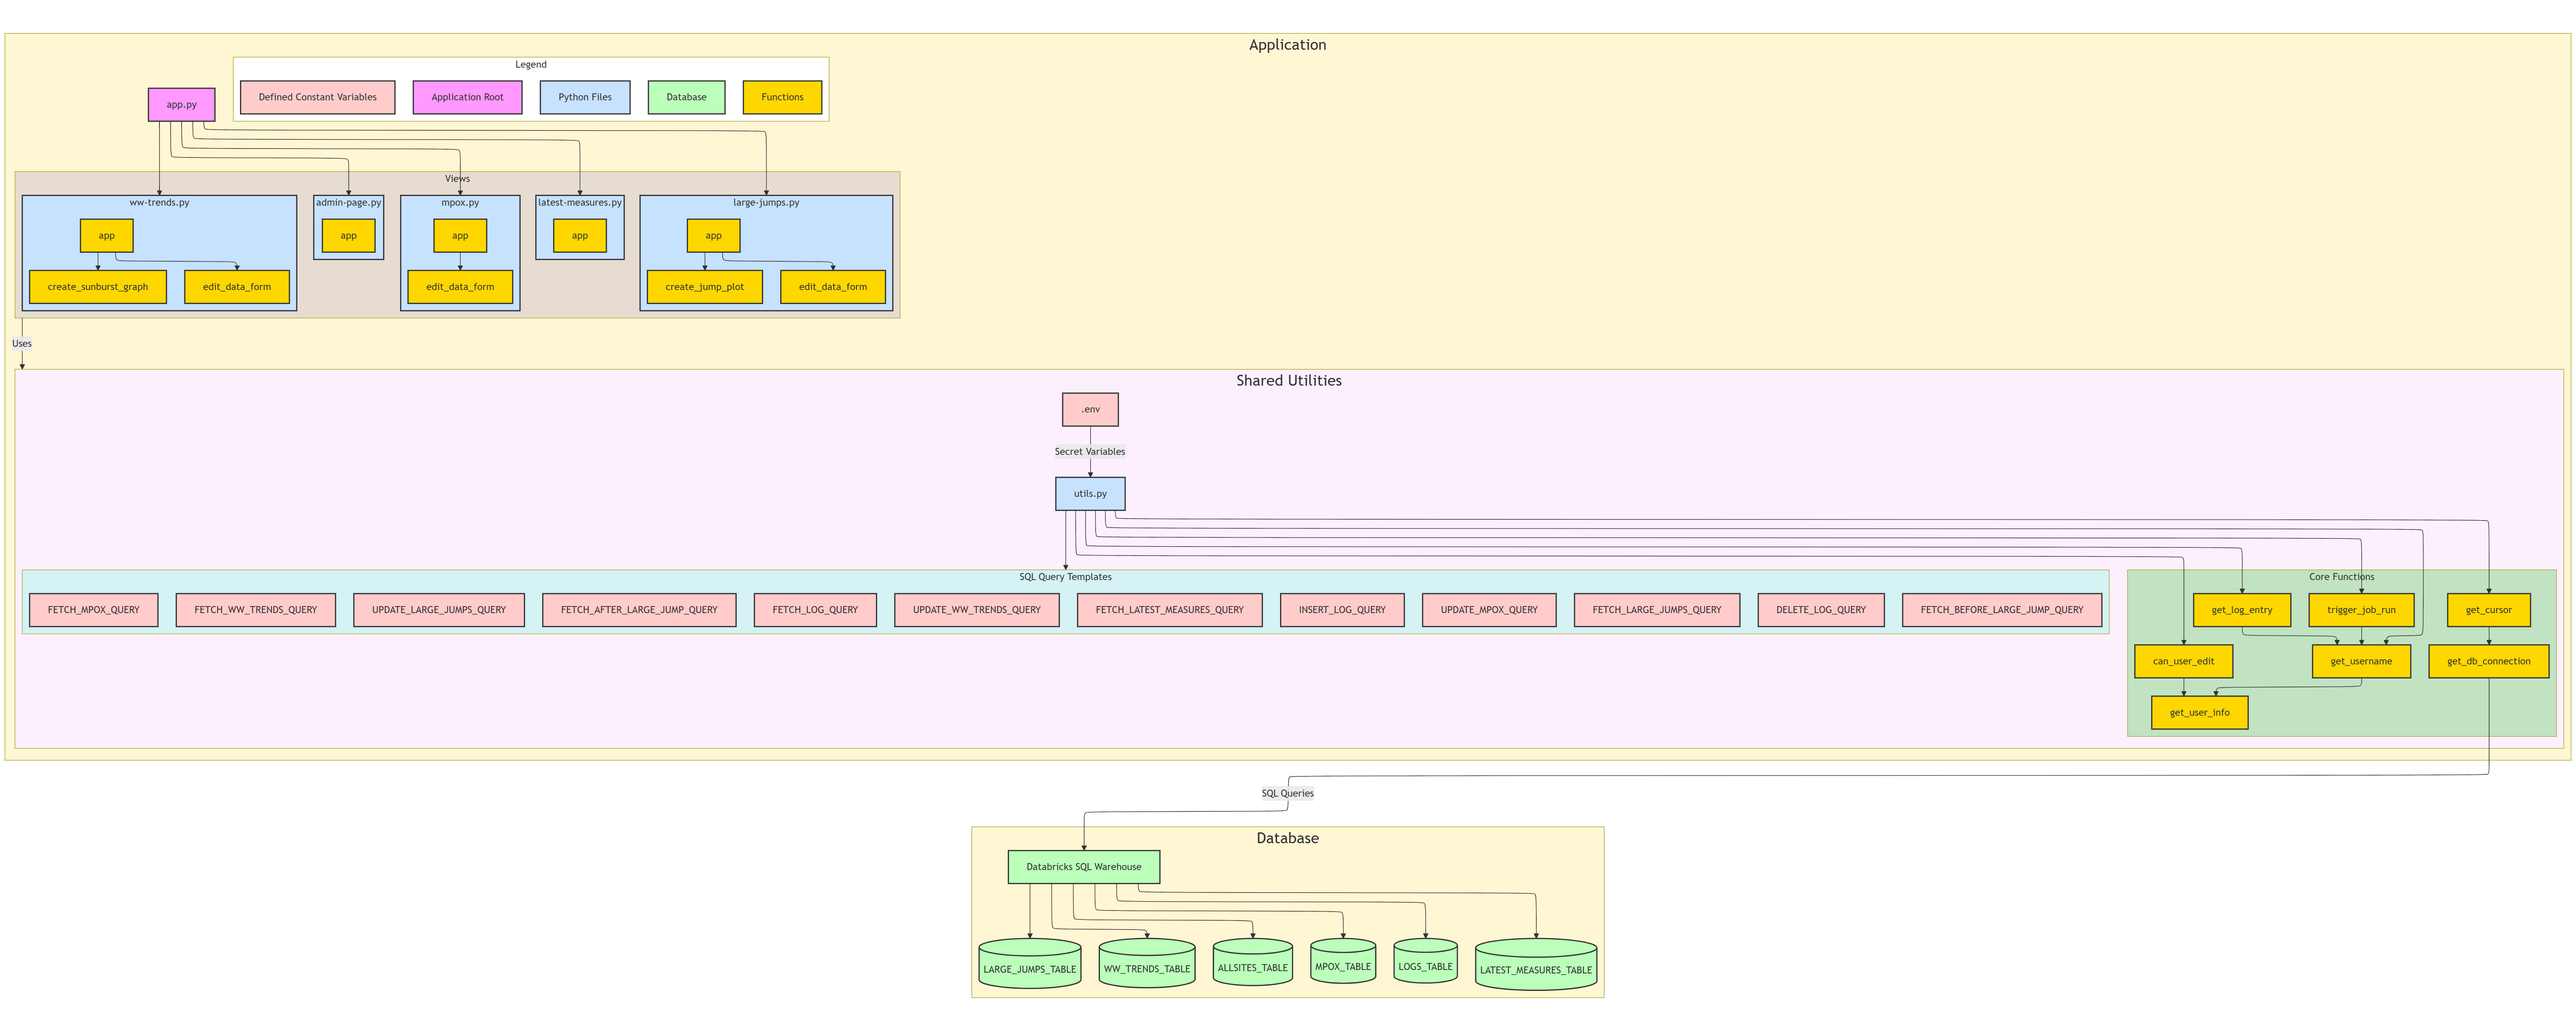
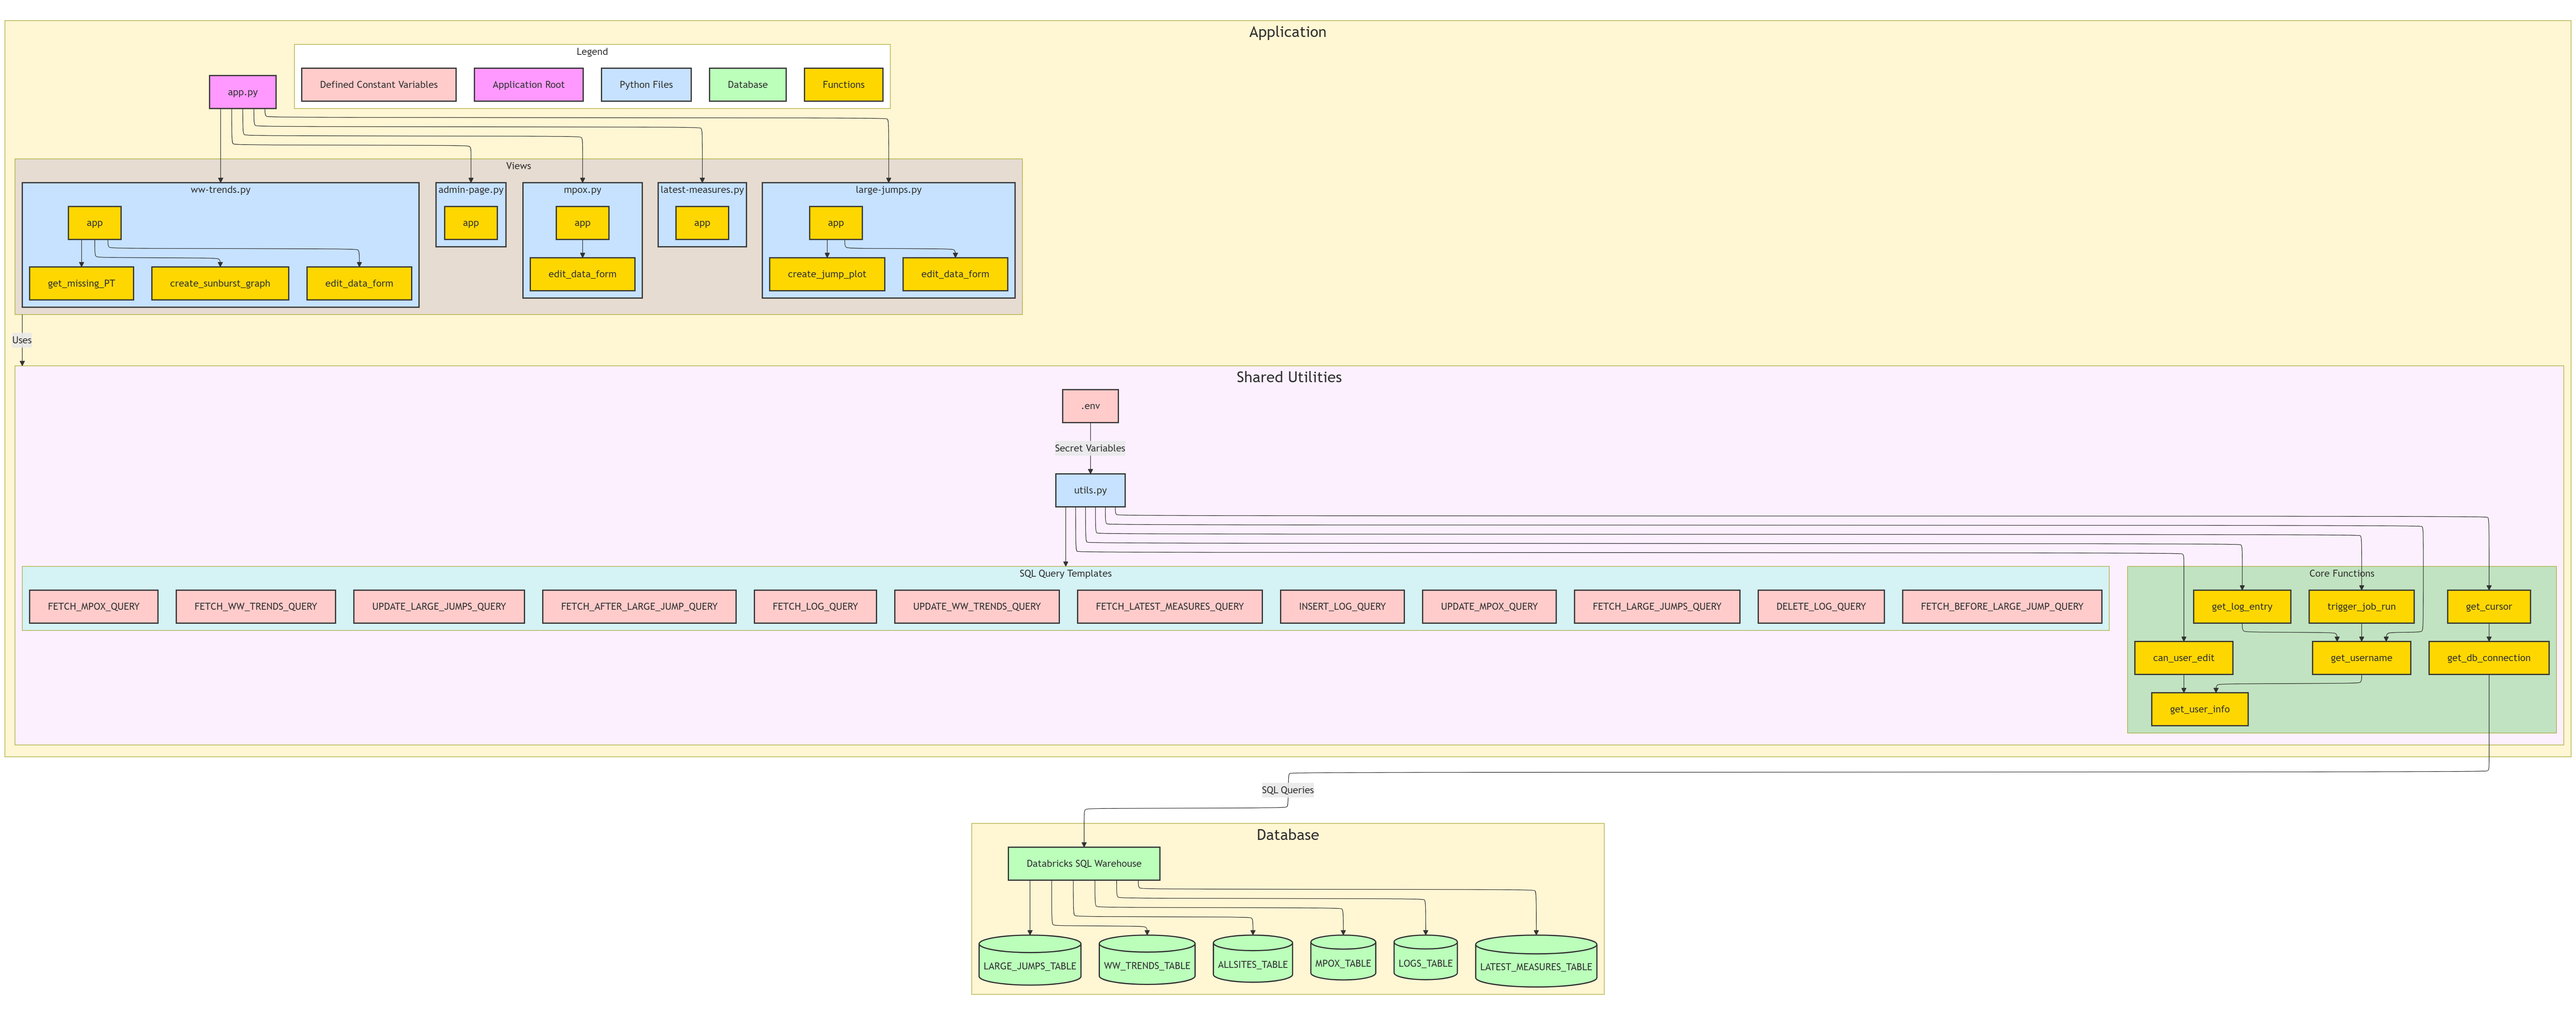
docs: update architecture.md to include get_missing_PT function and its usage

Changed region(s): [[0.0, 0.342, 1.0, 0.995], [0.0, 0.0, 1.0, 0.3109]]

diff --git a/architecture.md b/architecture.md
@@ -34,6 +34,7 @@ graph
                 app_ww[app]
                 app_ww --> create_sunburst_graph
                 app_ww --> edit_data_form_ww
+                app_ww --> get_missing_PT
             end
 
             subgraph C["mpox.py"]
@@ -111,6 +112,7 @@ graph
 
         %% Feature Nodes
         create_sunburst_graph[create_sunburst_graph]
+        get_missing_PT[get_missing_PT]
         edit_data_form_ww[edit_data_form]
         edit_data_form_mpox[edit_data_form]
         create_jump_plot[create_jump_plot]
@@ -138,7 +140,7 @@ graph
         class B,C,D,E,F,G,z2 views
         class H,select_ww_data,update_ww,select_mpox_data,update_mpox,select_jumps_data,update_jumps,select_logs,insert_log,delete_log,select_latest,select_before_jump,select_after_jump,z3 consts
         class I,J,K,L,M,N,O,z4 db
-        class app_ww,app_mpox,app_latest_measures,app_admin,app_large_jumps,create_sunburst_graph,edit_data_form_ww,edit_data_form_mpox,create_jump_plot,edit_data_form_large_jumps,get_db_connection,get_cursor,trigger_job_run,get_user_info,get_username,can_user_edit,get_log_entry,z5 function
+        class app_ww,app_mpox,app_latest_measures,app_admin,app_large_jumps,create_sunburst_graph,get_missing_PT,edit_data_form_ww,edit_data_form_mpox,create_jump_plot,edit_data_form_large_jumps,get_db_connection,get_cursor,trigger_job_run,get_user_info,get_username,can_user_edit,get_log_entry,z5 function
         class Application,shared_utilities,Database subgraphStyle
     end
 ```
@@ -156,6 +158,7 @@ graph
     *   [`ww-trends.py`](views/ww-trends.py): Respiratory virus trends visualization with sunburst graphs.
         *   Uses `create_sunburst_graph()` to display viral activity levels by region.
         *   Implements `edit_data_form_ww()` (a Streamlit dialog) for editing and submitting data.
+        *   Uses `get_missing_PT()` to check if any of the PTs are missing or if Canada is missing from data.
     *   [`mpox.py`](views/mpox.py): Mpox trends data management.
         *   Implements `edit_data_form_mpox()` (a Streamlit dialog) for editing and submitting data.
     *   [`latest-measures.py`](views/latest-measures.py): Display of measures from within the last 30 days.
@@ -197,5 +200,5 @@ graph
 *   The user modifies the data using the `edit_data_form` dialog pop-up.
 *   Upon submission, the application updates the corresponding table in the Databricks SQL Warehouse, using queries like [`UPDATE_WW_TRENDS_QUERY`](utils.py), [`UPDATE_MPOX_QUERY`](utils.py), or [`UPDATE_LARGE_JUMPS_QUERY`](utils.py).
 *   The application logs the changes using [`get_log_entry()`](utils.py) and [`INSERT_LOG_QUERY`](utils.py).
-*   The application triggers a Databricks job (using [`trigger_job_run()`](utils.py)) to sync the changes with the main MSSQL database. The specific job ID is determined by the page (e.g., `WW_JOB_ID` or `MPOX_JOB_ID` from the environment variables).
+*   The application triggers a Databricks job (using [`trigger_job_run()`](utils.py)) to sync the changes with the main MSSQL database and blob-storage CSV files. The specific job ID is determined by the page (e.g., `WW_JOB_ID` or `MPOX_JOB_ID` from the environment variables).
 *   The Databricks job also sends a GC-Notify email to the user, confirming that their changes were successfully applied.
